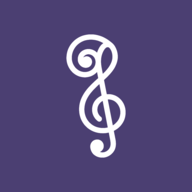
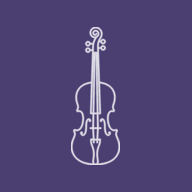
The mark is the violin from his card, in three weights that survive small

Changed region(s): [[0.3438, 0.125, 0.6562, 0.875]]

diff --git a/assets/css/app.css b/assets/css/app.css
@@ -48,7 +48,10 @@ button { cursor: pointer; }
   padding: calc(14px + env(safe-area-inset-top)) 16px 14px;
   display: flex; align-items: center; gap: 12px;
 }
-.top img { width: 34px; height: 34px; border-radius: 8px; background: #fff; padding: 3px; }
+/* The mark is a line drawing, not a tile: it sits directly on the purple
+   with no white plate behind it, and keeps the violin's own tall
+   proportion rather than being squeezed into a square. */
+.top img { height: 40px; width: auto; display: block; }
 .top .t { flex: 1; min-width: 0; }
 .top .t b { display: block; font-size: 17px; line-height: 1.2; }
 .top .t span { display: block; font-size: 12.5px; opacity: .75; }
@@ -193,7 +196,7 @@ table.reg tbody tr { border-top: 1px solid var(--line); }
 }
 /* ---------- sign in ---------- */
 .gate { max-width: 380px; margin: 0 auto; padding: 44px 20px; text-align: center; }
-.gate img { width: 76px; height: 76px; margin-bottom: 14px; }
+.gate img { height: 118px; width: auto; margin-bottom: 16px; }
 .gate h1 { font-size: 22px; margin-bottom: 4px; }
 .gate p  { color: var(--ink-3); font-size: 14.5px; margin: 0 0 26px; }
 .gate .field { text-align: left; }

diff --git a/index.html b/index.html
@@ -132,7 +132,7 @@
   /* ---------- chrome ---------- */
   function header(sub) {
     return '<div class="top">' +
-      '<img src="assets/img/logo.png" alt="" />' +
+      '<img src="assets/img/logo-white.png" alt="" />' +
       '<div class="t"><b>Mezzo</b><span>' + esc(sub) + "</span></div>" +
       '<button id="out">Sign out</button></div>';
   }

diff --git a/docs/BRAND.md b/docs/BRAND.md
@@ -1,0 +1,39 @@
+# Mezzo — the mark
+
+The symbol is the **line-art violin from Dr. Krishnan's business card**,
+not a new idea. He is already handing that card out, so the app carries
+his identity rather than competing with it. The card also uses a treble
+clef as a background watermark; that is a texture, not the mark, and it
+is deliberately not used here.
+
+| file | what it is | where |
+|---|---|---|
+| `logo.png` | 318×900, purple `#4B3F72` on transparent, hairline | sign-in screen, print, anywhere it is shown large |
+| `logo-white.png` | 113×320, white, **thicker stroke** | the app header, on the purple |
+| `icon-192/512.png` | white violin on `#4B3F72` | phone home screen |
+| `favicon.png` | 64×64, heaviest stroke | browser tab |
+| `docs/logo-source-1024.png` | the 1024px original | regenerate from this, not from a resize |
+
+## Why there are three stroke weights
+
+A hairline that looks refined at 900px **disappears at 40px**. Measured,
+not guessed: at the header's size the untouched stroke rendered as a
+grey smudge and the 32px favicon was blank. Each cut is dilated to suit
+where it is used — heavier as it gets smaller.
+
+If you regenerate any of these, check them at the size they are actually
+used before shipping. Resizing the big one is what produced the smudge.
+
+## Colour
+
+`#4B3F72` — taken from the card. `--brand` in `assets/css/app.css`.
+Ink `#2A2340`. Nothing else in the palette is a brand colour: green
+means present, red means absent or money late, and those are states, not
+identity.
+
+## The mark is a line, not a tile
+
+It sits directly on the purple in the header with no white plate behind
+it, and keeps the violin's tall proportion instead of being squeezed
+into a square. A line drawing on a white rounded rectangle reads as a
+sticker someone stuck on.
